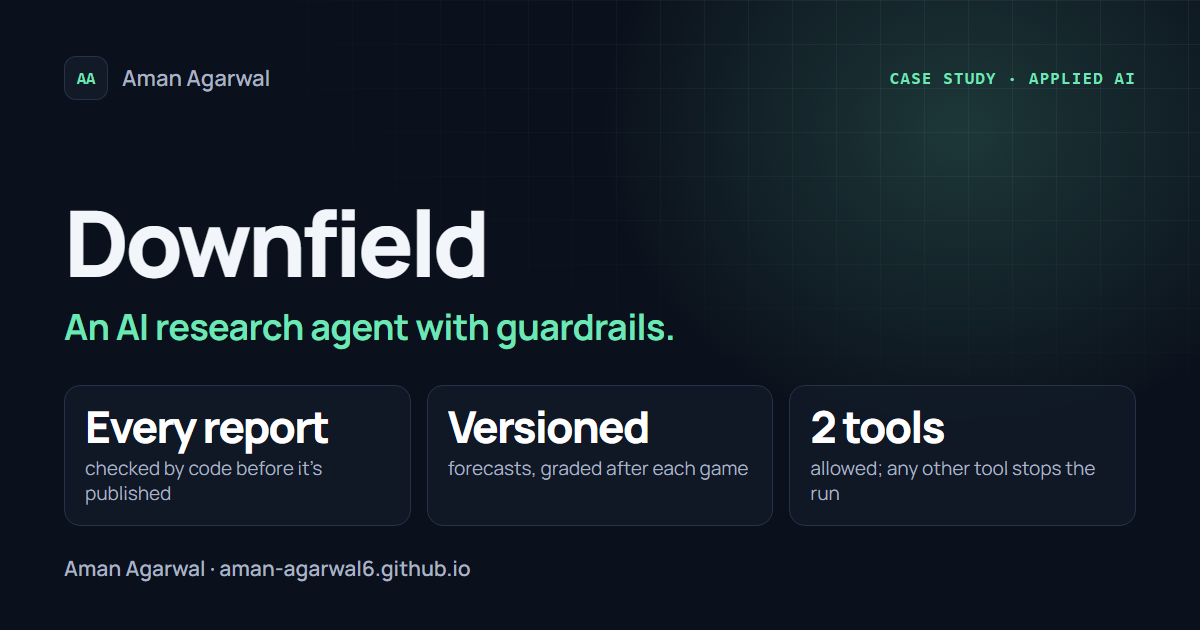
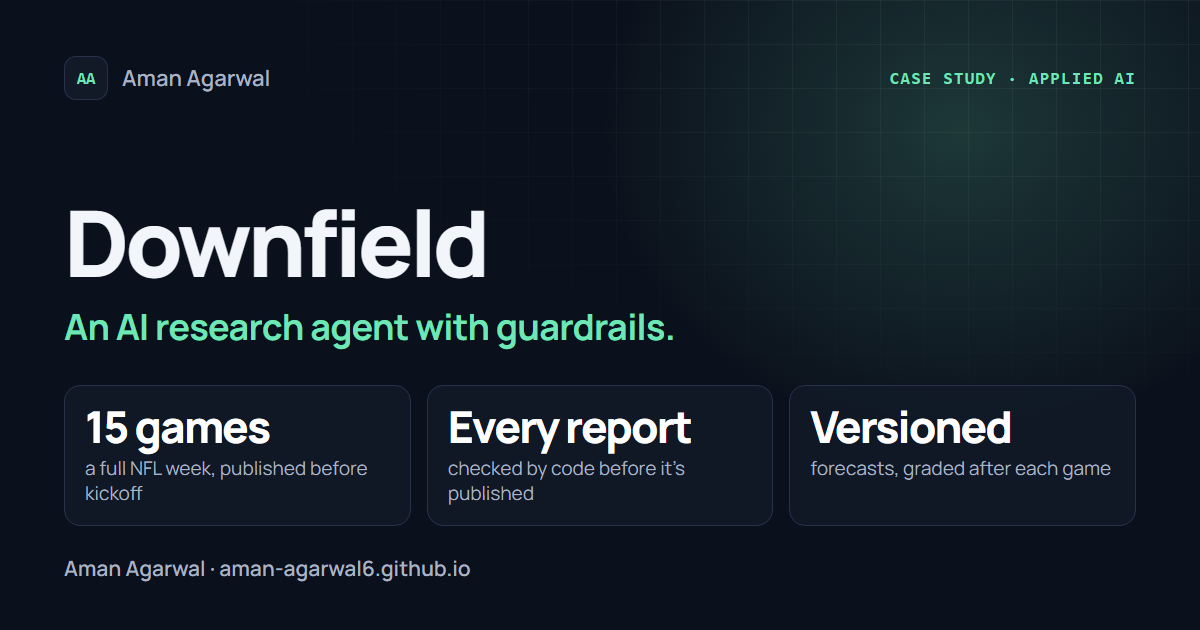
Add Downfield's full-week coverage

Changed region(s): [[0.0617, 0.6333, 0.3083, 0.8143], [0.37, 0.6333, 0.6167, 0.8143], [0.6783, 0.6333, 0.925, 0.8143]]

diff --git a/overview.html b/overview.html
@@ -70,7 +70,7 @@
       <article><div><h3><a href="projects/signalbridge.html">SignalBridge</a></h3><span class="summary-status">Public source · Signed release</span></div><div><p class="summary-lede">A detection lab that catches access that should have ended, tested against real Keycloak, Wazuh, OWASP ZAP and Shuffle.</p><ul class="summary-points"><li>Found and fixed a race that let a removed user make <strong>4 writes</strong></li><li><strong>5 detection rules</strong> written as Sigma, SPL and KQL and run in Splunk and a Kusto emulator</li><li>Opens a critical case when an account offboarded by AccessOps is used again</li></ul><small>Python / Django / PostgreSQL / Docker / Wazuh / Keycloak / Sigma</small></div></article>
       <article><div><h3><a href="projects/bettail.html">BetTail</a></h3><span class="summary-status">Live · Private source</span></div><div><p class="summary-lede">A live web app where private groups share sports picks and see profit, ROI and leaderboards calculated in the database.</p><ul class="summary-points"><li>Every request runs as the signed-in user under <strong>row-level security</strong>; no admin database key in the app</li><li>My security review found and fixed <strong>6 issues</strong>, including a NULL that skipped a guard and a CSV export open to formula injection</li><li>Shows <strong>AI research reports</strong> from Downfield, published through a report-only credential</li></ul><small>TypeScript / Next.js / PostgreSQL / Supabase</small></div></article>
       <article><div><h3><a href="projects/netted.html">Netted</a></h3><span class="summary-status">Deployed beta · Private source</span></div><div><p class="summary-lede">A personal-finance app for trade profit, shared funds and budgeting, built from a spreadsheet and accounting rules I wrote first.</p><ul class="summary-points"><li><strong>MFA enforced inside the database</strong>, so the API can't skip it</li><li>Security assessment for non-technical decision makers and a <strong>7-item risk register</strong> with owners and due dates</li><li>All <strong>506 journal records</strong> restored from an encrypted backup, hash-matched</li></ul><small>TypeScript / Next.js / PostgreSQL / Supabase</small></div></article>
-      <article><div><h3><a href="projects/downfield.html">Downfield</a></h3><span class="summary-status">Running locally · Private source</span></div><div><p class="summary-lede">A local AI research agent that turns game, injury, news and weather data into structured NFL reports for BetTail.</p><ul class="summary-points"><li>Code checks <strong>every report</strong> for schema, arithmetic and cross-player totals before it's published</li><li><strong>Versioned forecasts</strong>, graded against final stats after each game</li><li>Runs with <strong>2 allowed tools</strong> and no app secrets; web pages treated as untrusted</li></ul><small>Node.js / JavaScript / JSON Schema / Claude</small></div></article>
+      <article><div><h3><a href="projects/downfield.html">Downfield</a></h3><span class="summary-status">Running locally · Private source</span></div><div><p class="summary-lede">A local AI research agent that turns game, injury, news and weather data into structured NFL reports for BetTail.</p><ul class="summary-points"><li>Covered a full NFL week: <strong>15 game reports</strong> published before kickoff, each verified in BetTail</li><li>Code checks <strong>every report</strong> for schema, arithmetic and cross-player totals before it's published</li><li><strong>Versioned forecasts</strong>, graded against final stats after each game</li><li>Runs with <strong>2 allowed tools</strong> and no app secrets; web pages treated as untrusted</li></ul><small>Node.js / JavaScript / JSON Schema / Claude</small></div></article>
     </div>
   </section>
   <section class="summary-section" aria-labelledby="skills-title">

diff --git a/index.html b/index.html
@@ -219,7 +219,7 @@
           <h3><a href="projects/downfield.html">Downfield</a></h3>
           <p class="tagline">An AI research agent with guardrails.</p>
           <p>A local AI agent that turns game, injury, news and weather data into structured NFL reports for BetTail. It runs with two tools and no app secrets, and code checks every report before it’s published.</p>
-          <ul class="mini-metrics"><li><strong>Every report</strong>checked for schema and arithmetic before it’s published</li><li><strong>Versioned</strong>forecasts, graded against final stats after each game</li></ul>
+          <ul class="mini-metrics"><li><strong>15 games</strong>a full NFL week, published before kickoff and verified in BetTail</li><li><strong>Every report</strong>checked for schema and arithmetic before it’s published</li></ul>
           <p class="card-stack">Node.js · JSON Schema · Claude</p>
           <div class="card-links"><a href="projects/downfield.html">Case study <span aria-hidden="true">→</span></a><a href="projects/bettail.html#agent">BetTail integration <span aria-hidden="true">→</span></a></div>
         </div>

diff --git a/projects/downfield.html b/projects/downfield.html
@@ -63,9 +63,9 @@
           <a class="btn btn-ghost" href="bettail.html#agent">How BetTail shows the reports</a>
         </div>
         <ul class="tiles" aria-label="Results at a glance">
+          <li><strong>15 games</strong>a full NFL week of reports, all published before kickoff and verified in BetTail</li>
           <li><strong>Every report</strong>checked for schema, arithmetic and cross-player totals before publishing</li>
-          <li><strong>Versioned</strong>forecasts: new information adds a version instead of overwriting one</li>
-          <li><strong>Graded</strong>against final stats after each game, with missing stats left empty</li>
+          <li><strong>Versioned</strong>forecasts, graded against final stats after each game</li>
           <li><strong>2 tools</strong>allowed, web search and fetch, and no app secrets in the agent's environment</li>
         </ul>
         <dl class="cs-meta">

diff --git a/docs/PROJECTS.md b/docs/PROJECTS.md
@@ -46,6 +46,7 @@ A personal-finance app for trade profit, shared funds and budgeting, built from 
 
 A local AI research agent that turns game, injury, news and weather data into structured NFL reports for BetTail.
 
+- Covered a full NFL week: **15 game reports** published before kickoff, each verified in BetTail
 - Code checks **every report** for schema, arithmetic and cross-player totals before it's published
 - **Versioned forecasts**, graded against final stats after each game
 - Runs with **2 allowed tools** and no app secrets; web pages treated as untrusted
